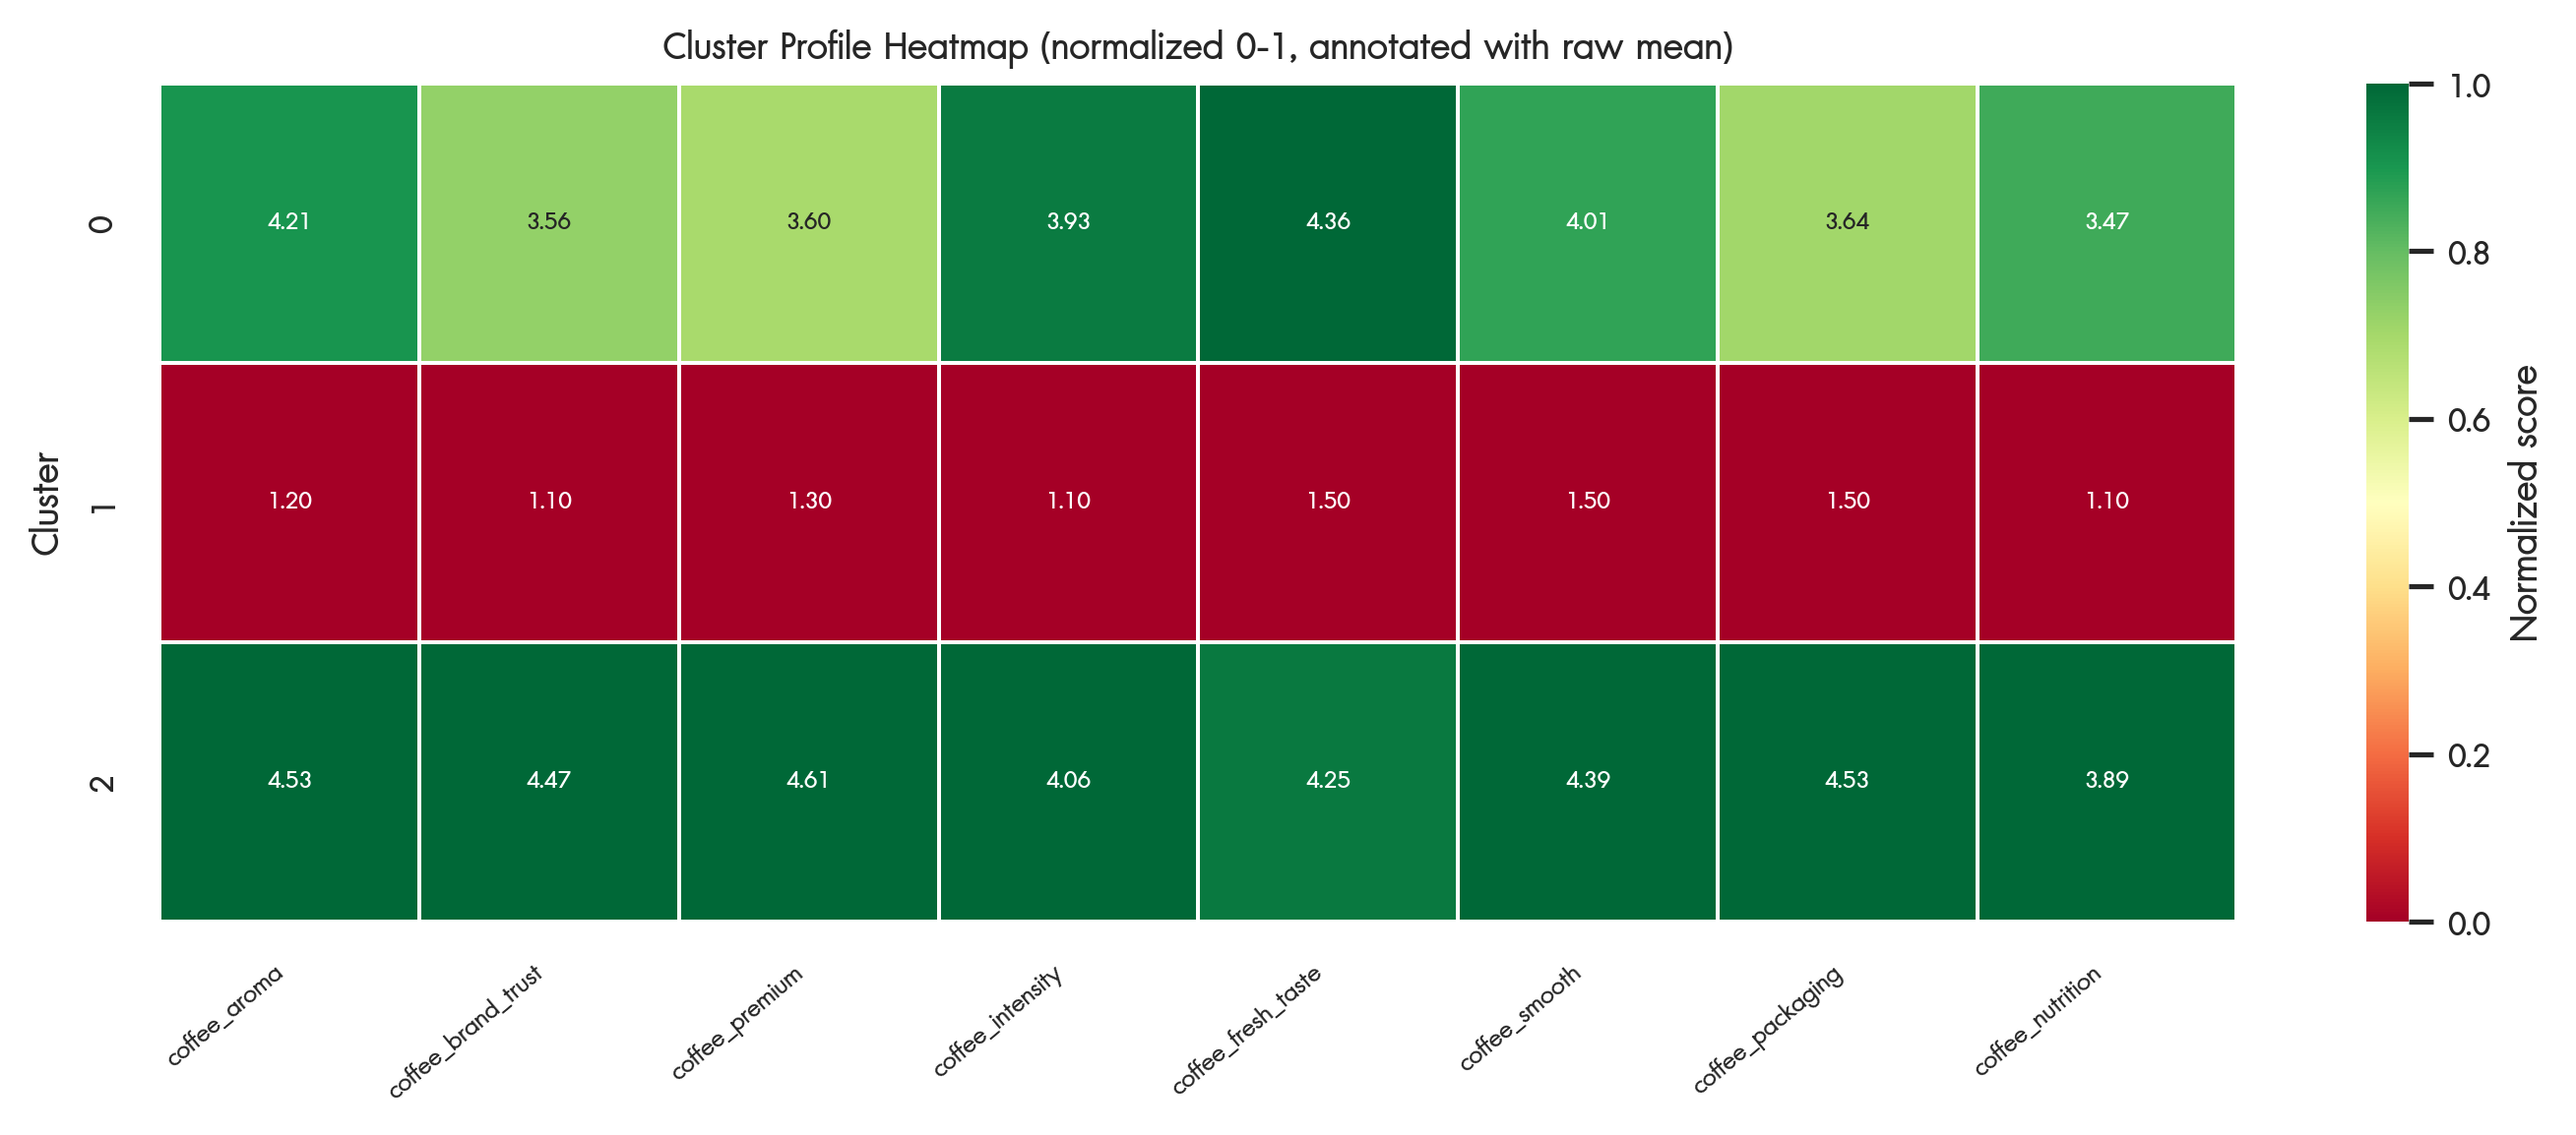
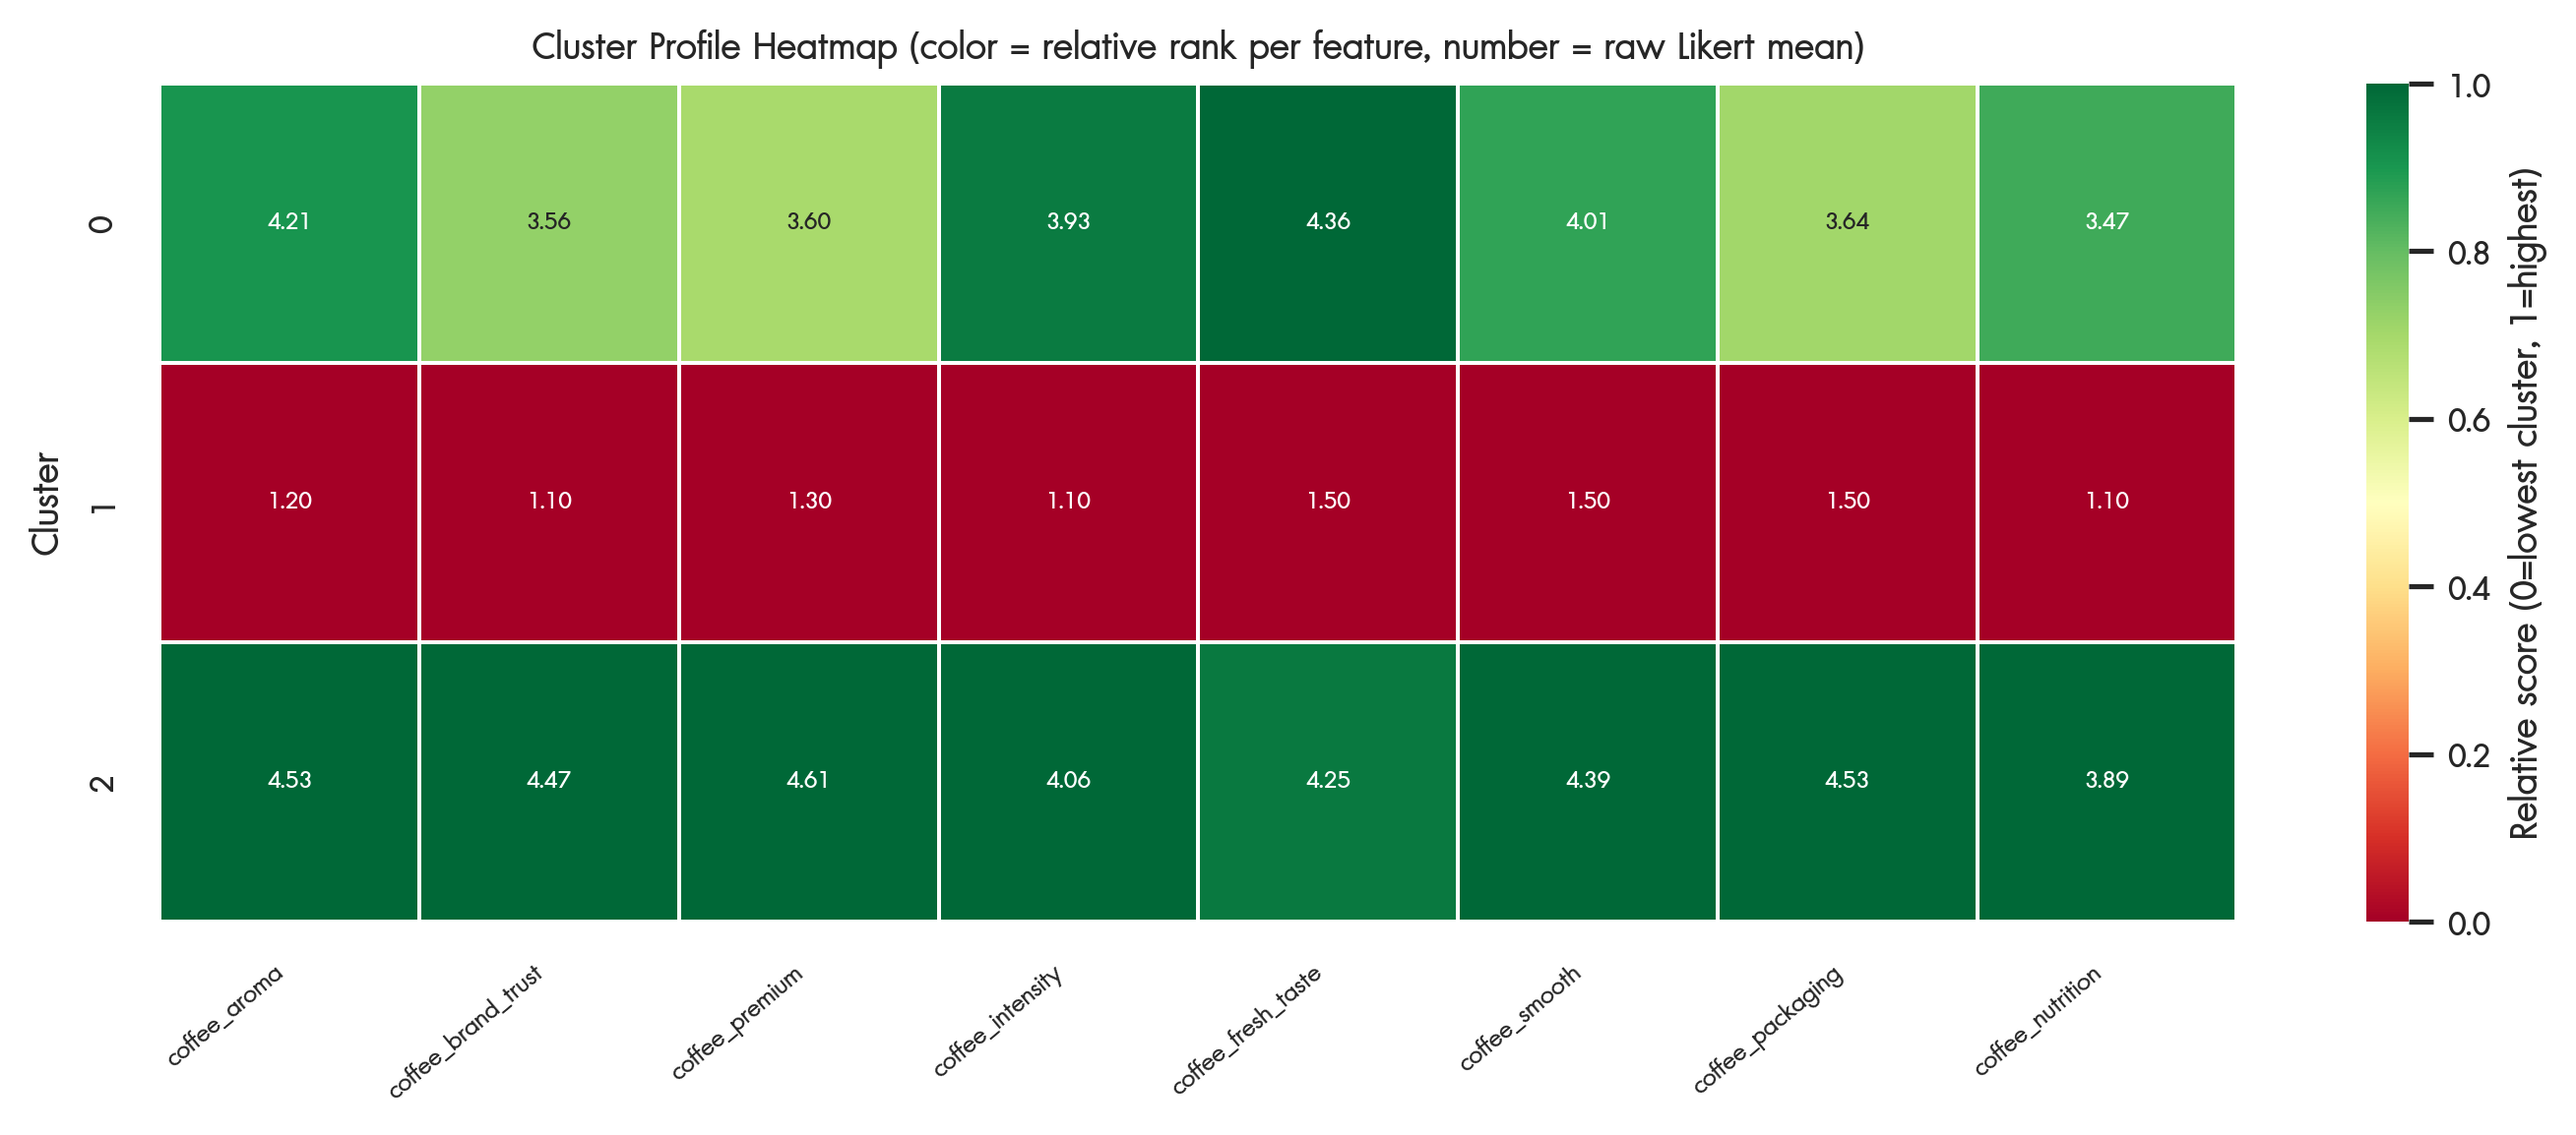
Update code

diff --git a/unsupervised_learning.py b/unsupervised_learning.py
@@ -415,19 +415,19 @@ def analyze_personas(df, numeric_df):
 
     cluster_col = 'customer_persona_cluster'
     n_clusters = df[cluster_col].nunique()
-
+ 
     # Cluster size
     print("\nCluster Size Distribution: ")
     counts = df[cluster_col].value_counts().sort_index()
     pcts = (counts / len(df) * 100).round(1)
     for c, cnt in counts.items():
-        print(f"Cluster {c}: {cnt} customers ({pcts[c]}%)")
-
+        print(f"  Cluster {c}: {cnt} customers ({pcts[c]}%)")
+ 
     # Mean profile per cluster
     print("\nMean Feature Values per Cluster: ")
     profile = df.groupby(cluster_col)[numeric_df.columns.tolist()].mean().round(3)
     print(profile.T.to_string())
-
+ 
     # Radar chart per cluster
     cluster_features = numeric_df.columns.tolist()
     top_features = (
@@ -436,54 +436,58 @@ def analyze_personas(df, numeric_df):
         .head(8)
         .index.tolist()
     )
+ 
     angles = np.linspace(0, 2 * np.pi, len(top_features), endpoint=False).tolist()
     angles += angles[:1]
-
+ 
     fig, axes = plt.subplots(1, n_clusters, figsize=(6 * n_clusters, 6),
                               subplot_kw=dict(polar=True))
     if n_clusters == 1:
         axes = [axes]
     colors = ["#D85A30", "#1D9E75", "#378ADD", "#7F77DD", "#E24B4A"]
-
-    # Normalize to 0–1 for radar readability
-    feat_min = profile[top_features].min()
-    feat_max = profile[top_features].max()
-    feat_range = (feat_max - feat_min).replace(0, 1)
-
+ 
+    # Use raw Likert scale (1–5) directly from the profile means for better interpretability
     for i, ax in enumerate(axes):
-        values = ((profile.loc[i, top_features] - feat_min) / feat_range).tolist()
+        values = profile.loc[i, top_features].tolist()
         values += values[:1]
+
         ax.plot(angles, values, color=colors[i % len(colors)], linewidth=2)
         ax.fill(angles, values, color=colors[i % len(colors)], alpha=0.25)
         ax.set_xticks(angles[:-1])
         ax.set_xticklabels(top_features, size=8)
-        ax.set_ylim(0, 1)
+        ax.set_ylim(0, 5)       # Likert 1–5 scale
+        ax.set_yticks([1, 2, 3, 4, 5])
+        ax.set_yticklabels(["1", "2", "3", "4", "5"], size=7, color="gray")
         ax.set_title(f"Cluster {i}", fontsize=13, color=colors[i % len(colors)], pad=15)
-        ax.yaxis.set_visible(False)
-
-    plt.suptitle("Customer Persona Radar Charts\n(top 8 most discriminating features)", fontsize=13)
+ 
+    plt.suptitle("Customer Persona Radar Charts\n(top 8 most discriminating features, Likert scale 1-5)", fontsize=13)
     plt.tight_layout()
     plt.savefig(output_dir / "persona_radar.png", dpi=300, bbox_inches="tight")
     plt.close(fig)
     print("\nSaved: persona_radar.png")
-
+ 
     # Heatmap: Cluster profiles
+    # Normalize per-column (across clusters)
+    feat_min = profile[top_features].min()
+    feat_max = profile[top_features].max()
+    feat_range = (feat_max - feat_min).replace(0, 1)
+    normalized = ((profile[top_features] - feat_min) / feat_range)
+ 
     fig, ax = plt.subplots(figsize=(min(len(top_features) * 1.2, 16), 4))
-    normalized = ((profile[top_features] - feat_min[top_features]) / feat_range[top_features])
     sns.heatmap(normalized, annot=profile[top_features].round(2), fmt=".2f",
                 cmap="RdYlGn", linewidths=0.5, ax=ax,
-                annot_kws={"size": 8}, cbar_kws={"label": "Normalized score"})
+                annot_kws={"size": 8}, cbar_kws={"label": "Relative score (0=lowest cluster, 1=highest)"})
     
-    ax.set_title("Cluster Profile Heatmap (normalized 0-1, annotated with raw mean)")
+    ax.set_title("Cluster Profile Heatmap (color = relative rank per feature, number = raw Likert mean)")
     ax.set_ylabel("Cluster")
     ax.set_xticklabels(ax.get_xticklabels(), rotation=40, ha="right", fontsize=8)
     plt.tight_layout()
     plt.savefig(output_dir / "persona_heatmap.png", dpi=300, bbox_inches="tight")
     plt.close(fig)
     print("Saved: persona_heatmap.png")
-
+ 
     # Auto-generate Persona Names based on top/bottom features
-    print("\nPersona Descriptions: ")
+    print("\nAuto-Generated Persona Descriptions: ")
     persona_names = {}
     for cluster_id in range(n_clusters):
         row = profile.loc[cluster_id, top_features]
@@ -492,7 +496,7 @@ def analyze_personas(df, numeric_df):
         name = f"Persona {cluster_id}: High {', '.join(high)} / Low {', '.join(low)}"
         persona_names[cluster_id] = name
         print(f"{name}")
-
+ 
     # Plot: Bar chart - cluster size
     fig, ax = plt.subplots(figsize=(6, 4))
     colors_bar = [colors[i % len(colors)] for i in range(n_clusters)]
@@ -507,14 +511,15 @@ def analyze_personas(df, numeric_df):
     plt.tight_layout()
     plt.savefig(output_dir / "persona_cluster_size.png", dpi=300, bbox_inches="tight")
     plt.close(fig)
-    print("\nSaved: persona_cluster_size.png")
-
+    print("Saved: persona_cluster_size.png")
+ 
     # PCA scatter with personas labeled
     fig, ax = plt.subplots(figsize=(10, 8))
     for i in range(n_clusters):
         mask = df[cluster_col] == i
         ax.scatter(df.loc[mask, 'pca_1'], df.loc[mask, 'pca_2'],
                    color=colors[i % len(colors)], alpha=0.7, s=80, label=f"Cluster {i}")
+        
         # Centroid label
         cx = df.loc[mask, 'pca_1'].mean()
         cy = df.loc[mask, 'pca_2'].mean()
@@ -522,7 +527,7 @@ def analyze_personas(df, numeric_df):
                 ha="center", va="center", color="white",
                 bbox=dict(boxstyle="round,pad=0.3", facecolor=colors[i % len(colors)], alpha=0.85))
         
-    ax.set_title("Customer Segmentation — PCA 2D Projection\n(K-Means Personas)")
+    ax.set_title("Customer Segmentation - PCA 2D Projection\n(K-Means Personas)")
     ax.set_xlabel("Principal Component 1")
     ax.set_ylabel("Principal Component 2")
     ax.legend(title="Persona Cluster", loc="upper right")
@@ -530,19 +535,19 @@ def analyze_personas(df, numeric_df):
     plt.savefig(output_dir / "customer_clusters_pca.png", dpi=300, bbox_inches="tight")
     plt.close(fig)
     print("Saved: customer_clusters_pca.png")
-
-    # Anomaly summary per cluster
+ 
+    # 6.8 Anomaly summary per cluster
     if 'is_anomaly' in df.columns:
-        print("\nAnomaly Distribution per Cluster (K-Means): ")
+        print("\nAnomaly Distribution per Cluster (K-Means):")
         anomaly_by_cluster = df.groupby(cluster_col)['is_anomaly'].agg(['sum', 'mean']).round(3)
         anomaly_by_cluster.columns = ['anomaly_count', 'anomaly_rate']
         print(anomaly_by_cluster.to_string())
-
+ 
     # Save final output CSV
     output_data_path = "media_behavior_with_clusters.csv"
     df.to_csv(output_data_path, index=False, encoding="utf-8-sig")
-    print(f"\nSaved final data with clusters to: {output_data_path}")
-
+    print(f"Saved final data with clusters to: {output_data_path}")
+ 
     return persona_names
 
 
